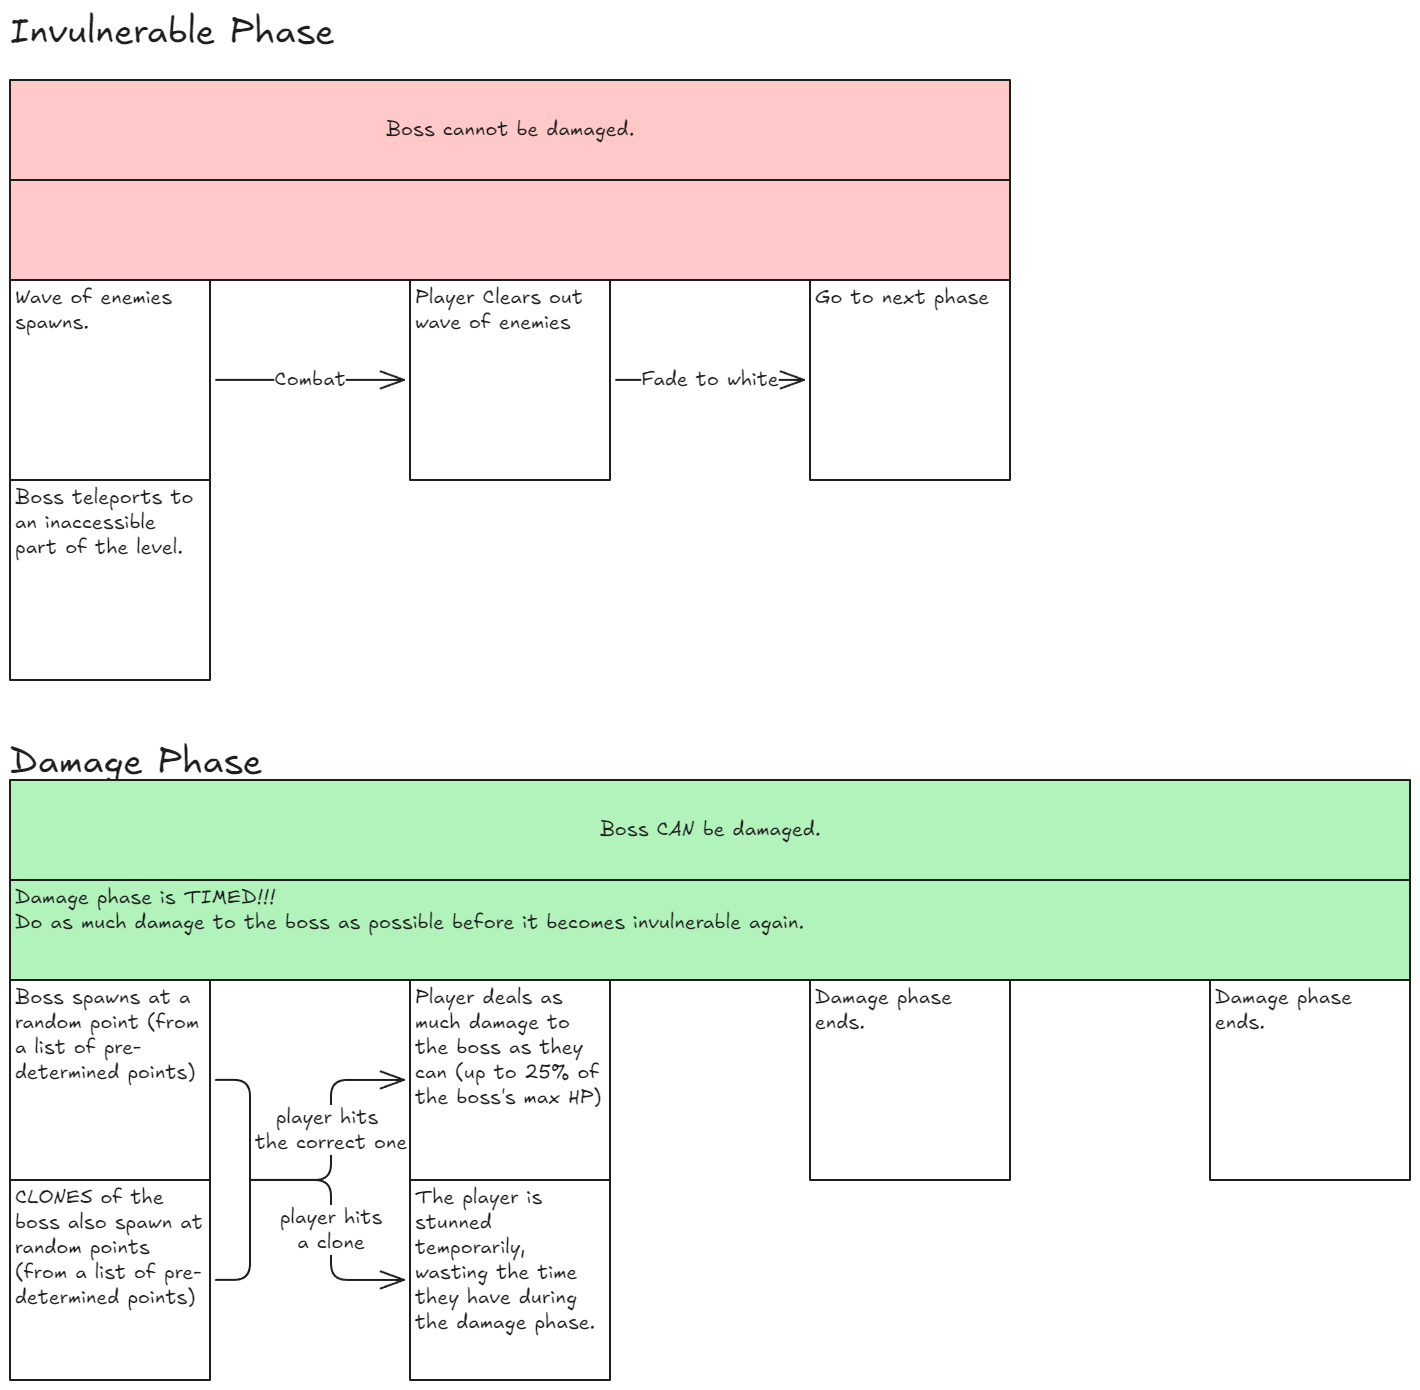
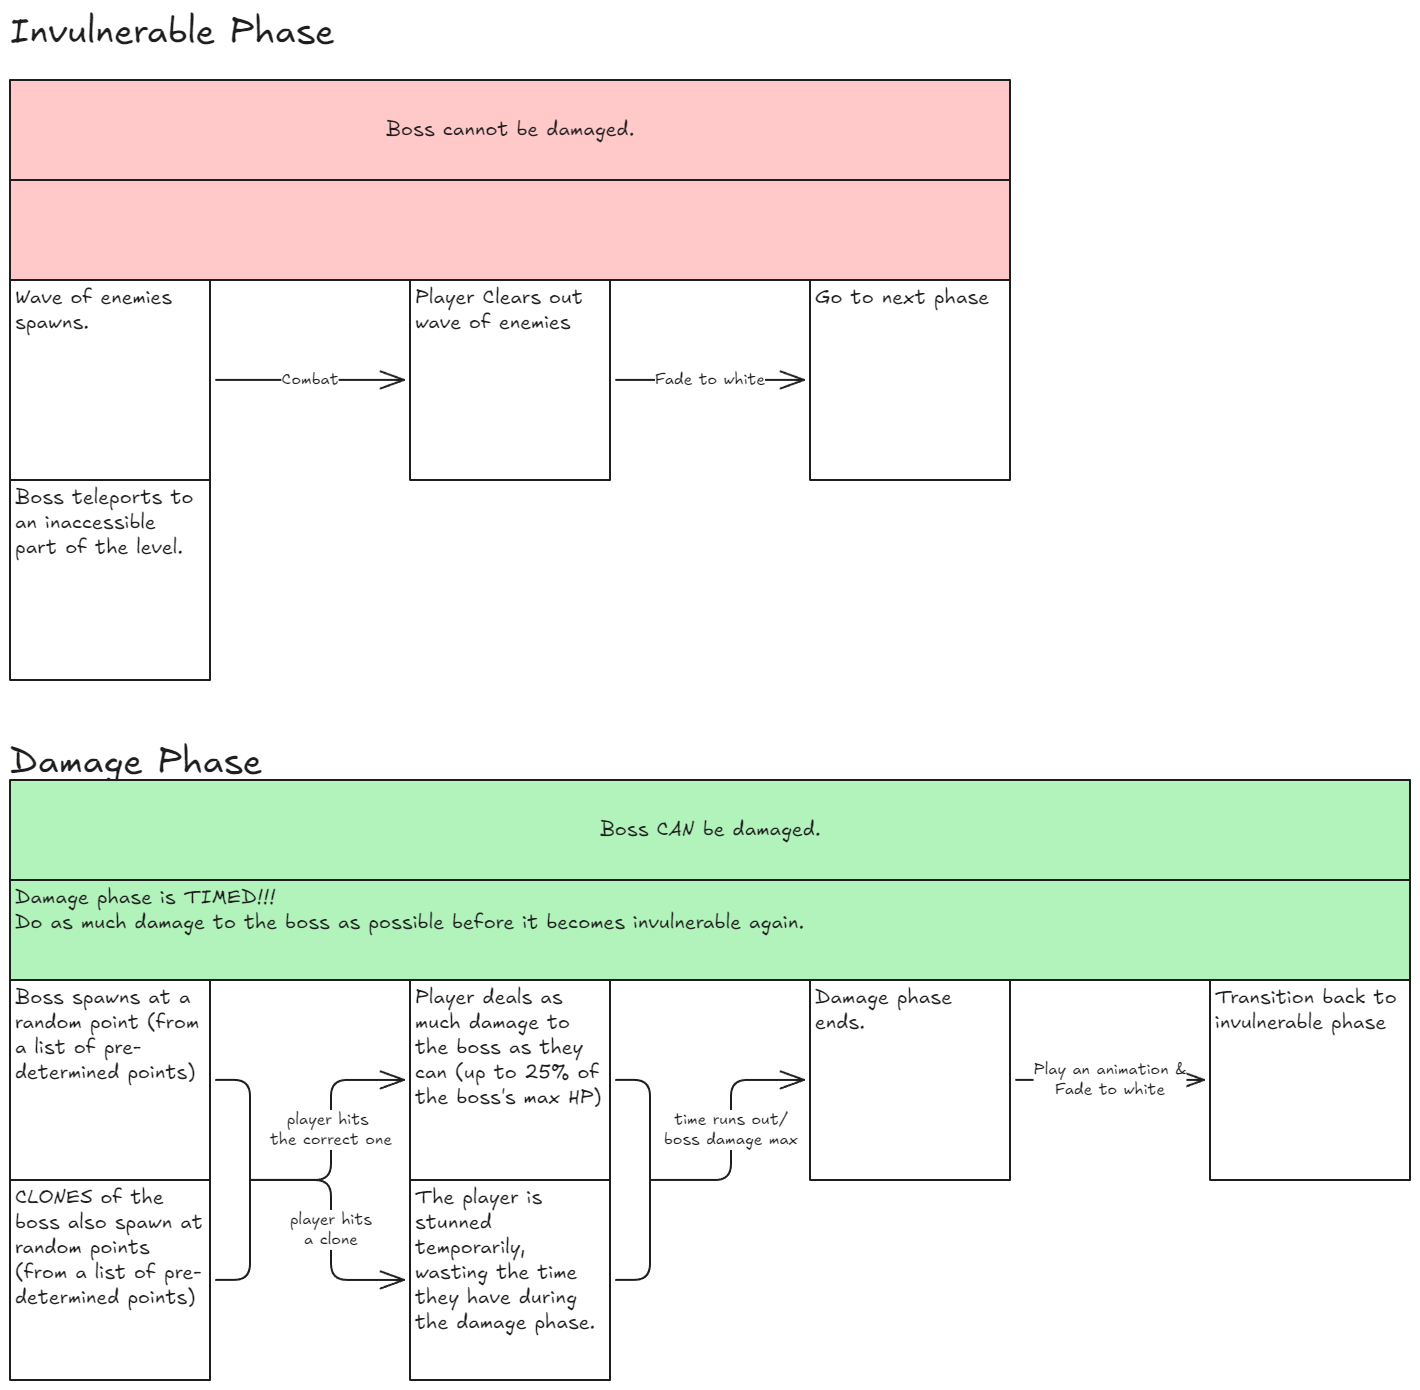
vault backup: 2026-06-24 12:29:26

diff --git a/Projects/Summer Project/Mechanics/Boss03/Boss03 Graph.md b/Projects/Summer Project/Mechanics/Boss03/Boss03 Graph.md
@@ -49,9 +49,14 @@ a clone ^vsOXvO8A
 
 Damage phase ends. ^I6YLHigG
 
-Damage phase ends. ^OPTF4HHF
+Transition back to invulnerable phase ^OPTF4HHF
 
 Boss teleports to an inaccessible part of the level. ^lAgRX4uB
+
+time runs out/
+boss damage max ^od2301VO
+
+Play an animation & Fade to white ^N9Xmqofg
 
 %%
 ## Drawing
@@ -92,96 +97,110 @@ AVET8xVNFqVSMdFL8+oUiWVhtRsYV4VjRId9tk40UwCy10cNgbTbSPiIBBV5hJVbSXSMdkcLYVwssmjP
 
[1 lines of base64/hex data omitted]
 
[2 lines of base64/hex data omitted]
 
[2 lines of base64/hex data omitted]
 
[2 lines of base64/hex data omitted]
 
[2 lines of base64/hex data omitted]
 
[2 lines of base64/hex data omitted]
 
[2 lines of base64/hex data omitted]
 
[2 lines of base64/hex data omitted]
 
[2 lines of base64/hex data omitted]
 
[2 lines of base64/hex data omitted]
 
[2 lines of base64/hex data omitted]
 
[2 lines of base64/hex data omitted]
 
[2 lines of base64/hex data omitted]
 
[2 lines of base64/hex data omitted]
 
[2 lines of base64/hex data omitted]
 
[2 lines of base64/hex data omitted]
 
[2 lines of base64/hex data omitted]
 
[2 lines of base64/hex data omitted]
 
[2 lines of base64/hex data omitted]
 
[2 lines of base64/hex data omitted]
 
[2 lines of base64/hex data omitted]
 
[2 lines of base64/hex data omitted]
 
[2 lines of base64/hex data omitted]
 
[2 lines of base64/hex data omitted]
 
[2 lines of base64/hex data omitted]
 
[2 lines of base64/hex data omitted]
 
[2 lines of base64/hex data omitted]
 
[2 lines of base64/hex data omitted]
 
[2 lines of base64/hex data omitted]
 
[2 lines of base64/hex data omitted]
 
[2 lines of base64/hex data omitted]
 
[2 lines of base64/hex data omitted]
 
[2 lines of base64/hex data omitted]
 
[2 lines of base64/hex data omitted]
 
[2 lines of base64/hex data omitted]
 
[2 lines of base64/hex data omitted]
 
[2 lines of base64/hex data omitted]
 
[2 lines of base64/hex data omitted]
 
[2 lines of base64/hex data omitted]
 
[2 lines of base64/hex data omitted]
 
[2 lines of base64/hex data omitted]
 
[2 lines of base64/hex data omitted]
 
[2 lines of base64/hex data omitted]
 
[2 lines of base64/hex data omitted]
 
[2 lines of base64/hex data omitted]
 
[2 lines of base64/hex data omitted]
 
[2 lines of base64/hex data omitted]
+
[1 lines of base64/hex data omitted]
+
[1 lines of base64/hex data omitted]
+
[1 lines of base64/hex data omitted]
+
[1 lines of base64/hex data omitted]
+
[1 lines of base64/hex data omitted]
+
[1 lines of base64/hex data omitted]
+
[1 lines of base64/hex data omitted]
 ```
 %%
